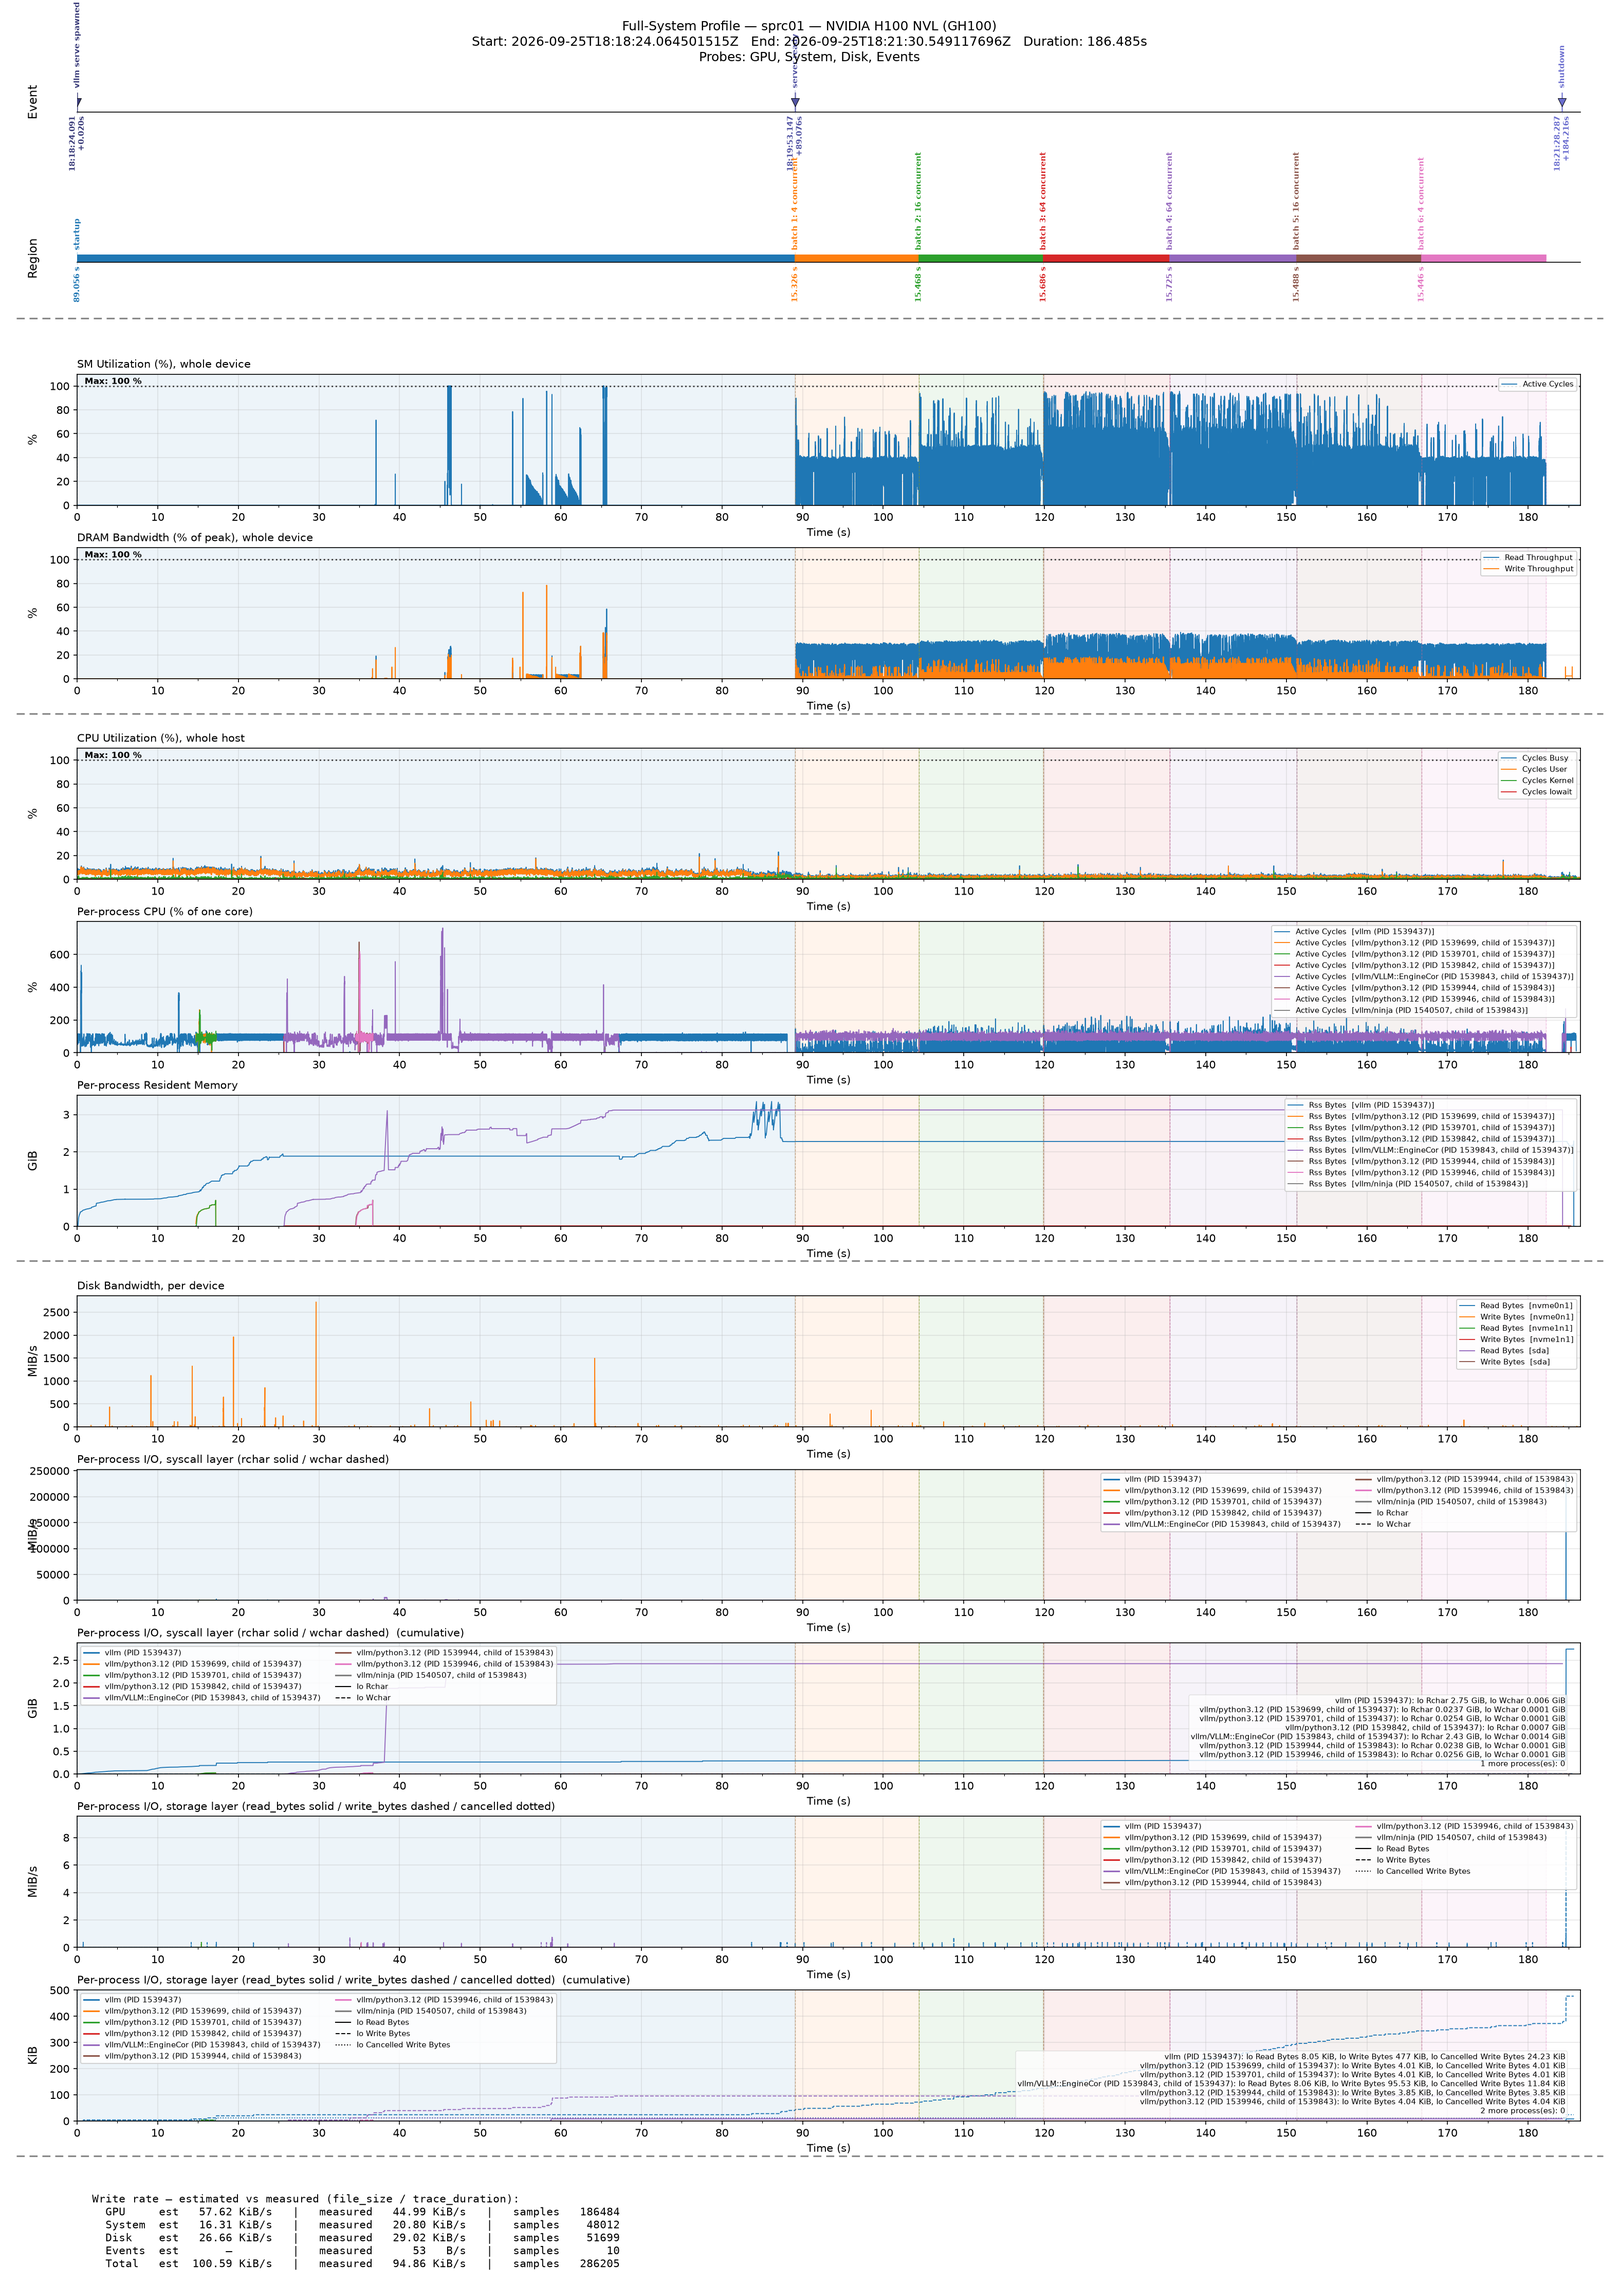
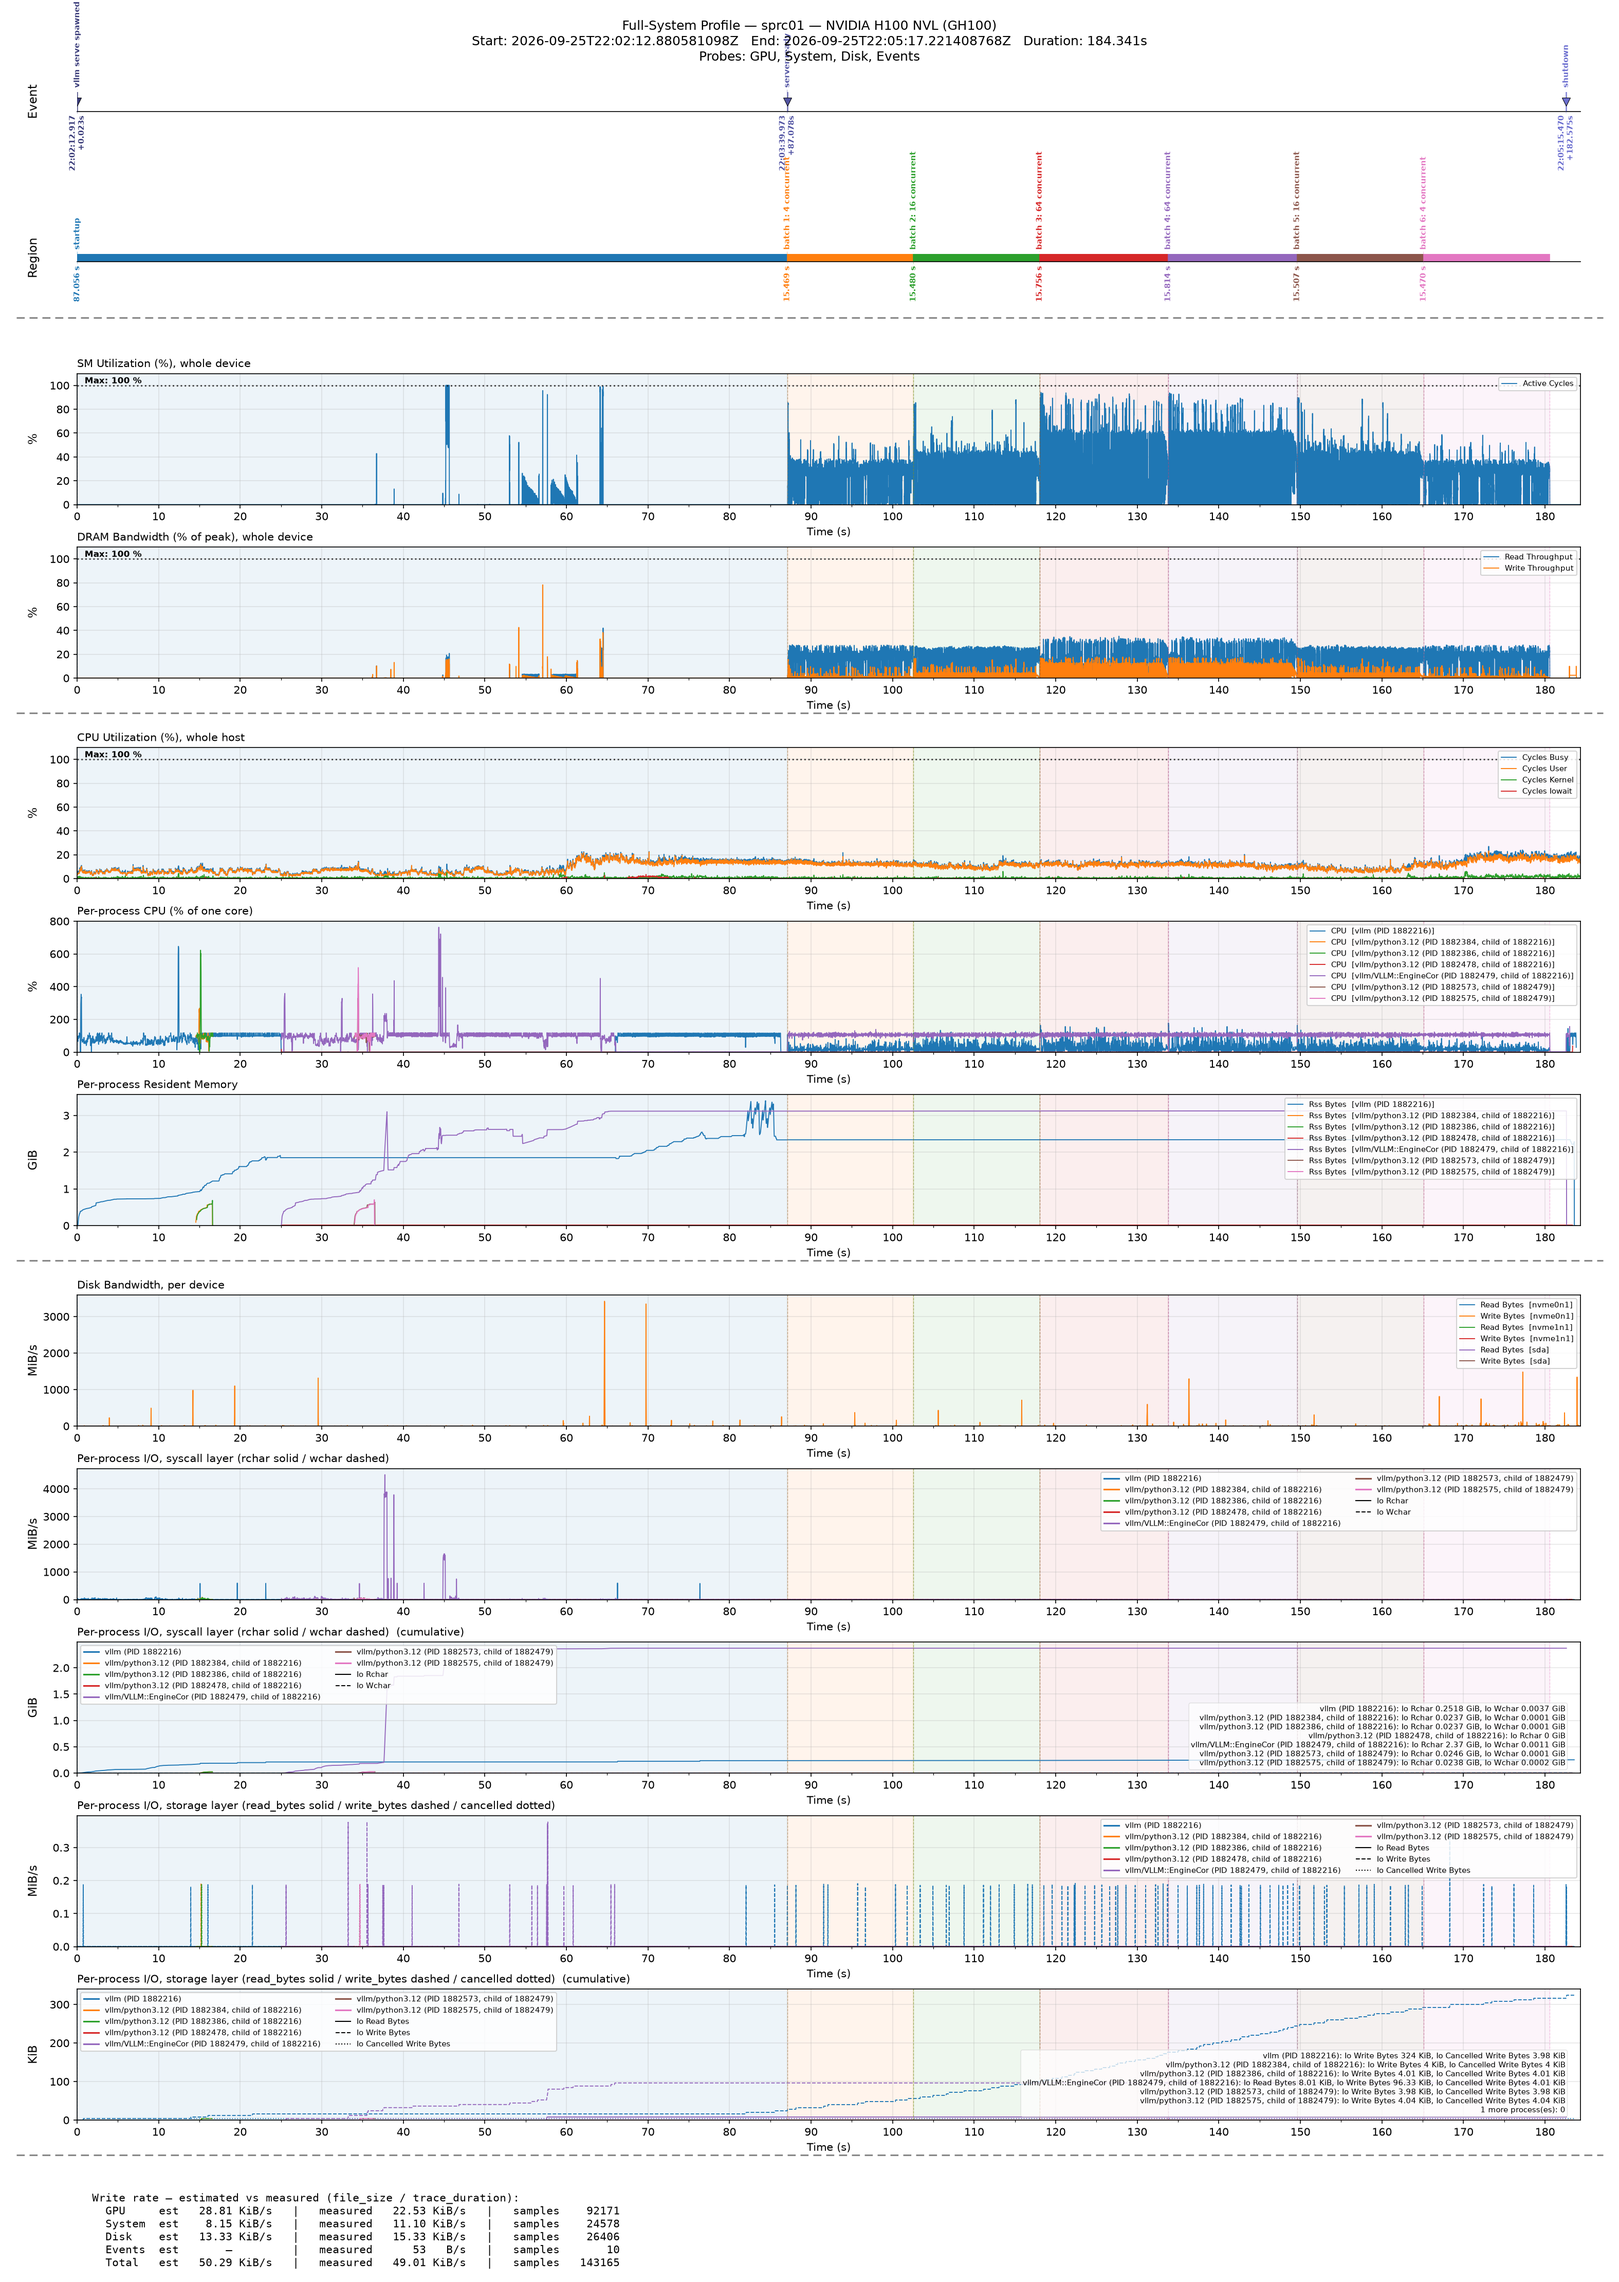
docs(examples): re-render the vLLM figure at the new defaults
Rerun of examples/vllm_serving_profiling.py at HEAD's defaults (System
and Disk 50 Hz, --gpu at 500 Hz), after the reaped-children and
reap-chain I/O subtraction. In the new figure EngineCore's 2.43 GiB is
subtracted from the API server at shutdown, so the syscall-layer rate
panel no longer has a 250 GB/s reap sample stretching its axis (the
weight load at ~38 s is readable), and per-process CPU legends read
"CPU".

docs/examples/vllm_serving.md: every number quoted from the run in the
figure is from this run (process table, timeline, requests served,
missed short-lived processes, scan cost, sidecar CPU, GPU activity per
batch, weight-load step); the node was not idle (other jobs kept the
whole-host CPU at 5-20%), and the doc says so. The GPU paragraph now
gives the measured cost at 500 Hz (-6.9% throughput, 95% CI 4.8-9.0%,
12 interleaved pairs) instead of the unresolved n = 3 result.

Claude-Session: https://claude.ai/code/session_01KGtpen56WsVzwjUE2dwvzH

diff --git a/docs/examples/vllm_serving.md b/docs/examples/vllm_serving.md
@@ -90,60 +90,59 @@ renames; its rename history is in the table below.
 ### The run in the figure
 
 `Qwen/Qwen3.5-0.8B` on one H100 NVL, vLLM 0.29 from PyPI, `--gpu`, the
-defaults otherwise (100 Hz, 100 ms scan), `-- --max-model-len 4096
---gpu-memory-utilization 0.80`, warm compile caches. The server was ready
-89 s after spawn and served 2844 requests in the 90 s of load, none failed.
-What the example printed at the end, the trace's process table (times from
-the start of the trace; CPU = head + samples + exit tail):
+defaults otherwise (System and Disk 50 Hz, GPU 500 Hz, 100 ms scan),
+`-- --max-model-len 4096 --gpu-memory-utilization 0.80`, warm compile caches.
+The server was ready 87 s after spawn and served 2412 requests in the 90 s of
+load, none failed. The node was not otherwise idle: other jobs kept the
+whole-host CPU panel at 5–20% busy (vLLM itself accounts for ~2 of the 128
+CPUs). What the example printed at the end, the trace's process table (times
+from the start of the trace; CPU = head + samples + exit tail):
 
 | pid | parent | kind | comm (history) | start s | end s | CPU s |
 |---|---|---|---|---|---|---|
-| 1539437 | 1539403 | root | `vllm` | 0.02 | 185.98 | 73.73 |
-| 1539699 | 1539437 | discovered | `python3.12` | 14.65 | 17.27 | 2.49 |
-| 1539701 | 1539437 | discovered | `python3.12` | 14.70 | 17.27 | 2.44 |
-| 1539703 | 1539437 | discovered | `vllm` | 14.92 | 14.93 | 0.00 |
-| 1539842 | 1539437 | discovered | `python3.12` | 25.61 | 185.34 | 0.05 |
-| 1539843 | 1539437 | discovered | `python3.12` → `VLLM::EngineCor` | 25.62 | 184.69 | 137.60 |
-| 1539944 | 1539843 | discovered | `python3.12` | 34.47 | 36.74 | 2.48 |
-| 1539946 | 1539843 | discovered | `python3.12` | 34.52 | 36.72 | 2.46 |
-| 1540246 | 1539843 | discovered | `VLLM::EngineCor` | 45.92 | 45.93 | 0.00 |
-| 1540454 | 1539843 | discovered | `VLLM::EngineCor` | 58.91 | 58.94 | 0.00 |
-| 1540507 | 1539843 | discovered | `ninja` | 65.41 | 65.53 | 0.03 |
+| 1882216 | 1882197 | root | `vllm` | 0.0 | 183.8 | 64.36 |
+| 1882384 | 1882216 | discovered | `python3.12` | 14.4 | 16.6 | 2.21 |
+| 1882386 | 1882216 | discovered | `python3.12` | 14.5 | 16.7 | 2.40 |
+| 1882478 | 1882216 | discovered | `python3.12` | 25.0 | 183.4 | 0.04 |
+| 1882479 | 1882216 | discovered | `python3.12` → `VLLM::EngineCor` | 25.0 | 183.0 | 137.84 |
+| 1882573 | 1882479 | discovered | `python3.12` | 33.9 | 36.6 | 2.66 |
+| 1882575 | 1882479 | discovered | `python3.12` | 33.9 | 36.5 | 2.73 |
 
-The **root** (1539437, `vllm`) is the API server; kind `root` because the
-launcher listed it. **EngineCore** (1539843) was found as `python3.12` 25.6 s
+The **root** (1882216, `vllm`) is the API server; kind `root` because the
+launcher listed it. **EngineCore** (1882479) was found as `python3.12` 25.0 s
 in, before it renamed itself, and its alias followed the rename. The
-**multiprocessing helper** (1539842) lives for the whole run at ~0 CPU. The
+**multiprocessing helper** (1882478) lives for the whole run at ~0 CPU. The
 rest are **startup transients**: two pairs of short-lived Python workers
-(~2.5 s of CPU each; one pair under the API server, one under EngineCore),
-EngineCore's brief forks (still carrying its comm), and a `ninja` build step.
+(~2.5 s of CPU each; one pair under the API server, one under EngineCore).
 Processes that lived less than one scan interval can be missing: in this run
-the oracle below saw 3 such (`file` and two forks), each alive for a single
-10 ms poll.
+the oracle below saw 5 such (`file`, `ninja`, `tileiras` and two of
+EngineCore's brief forks), each alive at most 80 ms.
 
 The panels line up with vLLM's own log (times from the start of the trace):
-EngineCore starts at 25.6 s and loads the weights at ~38 s (the 1.6 GiB step
-in its cumulative `rchar`); its profiling warmup run (~47–54 s) and CUDA
-graph capture (~54–62 s) are the GPU activity during startup and its bursts
-of several cores; its init finishes at ~67 s, and the API server, busy at
-~100% of a core through most of startup, spends ~20 s more on multi-modal
-warmup before it answers `/v1/models` at 89 s. Under load both run near one
-core each; resident memory grows to ~3 GiB in each. (`torch.compile` was a
-cache hit here, 0.4 s; with cold caches startup takes minutes and spawns
-many more short-lived compiler processes, each traced if it lives ≥ 100 ms.)
+EngineCore starts at 25.0 s and loads the weights at ~38 s (the step in its
+cumulative `rchar`; vLLM: "Loading weights took 0.52 seconds"); its profiling
+warmup and two CUDA graph captures (finished at 56 s and 61 s) are the GPU
+activity during startup and its bursts of several cores; its init finishes at
+65 s, and the API server, busy at ~100% of a core through most of startup,
+spends ~20 s more before it answers `/v1/models` at 87 s. Under load both run
+near one core each; resident memory reaches ~3.1 GiB (EngineCore) and
+~2.3 GiB (API server). (`torch.compile` was a cache hit here, 0.3 s; with cold
+caches startup takes minutes and spawns many more short-lived compiler
+processes, each traced if it lives ≥ 100 ms.)
 
-### Checked on six runs
+### Checked on seven runs
 
-Two jobs, six runs (two without `--gpu`, then two pairs alternating), with a
+Six runs at the earlier defaults (System and Disk 100 Hz; two without
+`--gpu`, then two pairs alternating) and the run in the figure, each with a
 test-only oracle polling the run's cgroup every 10 ms and the launcher's
 `getrusage(RUSAGE_CHILDREN)`:
 
 | | result |
 |---|---|
-| Completeness: every process the oracle saw alive ≥ 100 ms is in the trace (both probes) | **6/6 runs** (7–8 such processes per run, 0 missed); the 3–9 missed per run were each seen alive ≤ 10.5 ms |
-| Per-process CPU of the whole tree (Σ head + samples + tails) vs `getrusage(RUSAGE_CHILDREN)` once vLLM was reaped | trace **15–44 ms below** out of 196–221 s (0.008–0.020%). What the trace cannot hold: the root's CPU after its last sample (a root has no exit tail: its parent, the launcher, is not tracked), and the CPU of the missed sub-100 ms processes |
-| Descendant tracking scan (the trace's `DiscoveryStats`) | p50 0.72–1.25 ms, p99 1.7–2.8 ms, 7–10 processes discovered, all seen exiting |
-| The sidecar's own CPU (exact, from `getrusage` across `stop()`) | **8.6–14.6% of one core** over the run, unpinned. 8.6% in the one run on a quiet node without `--gpu`; 13.2–14.6% while the node was 40–70% busy with other jobs or the launcher ran the GPU probe beside it. Pin it with `sidecar_cpus` to keep it off the server's cores |
+| Completeness: every process the oracle saw alive ≥ 100 ms is in the trace (both probes) | **7/7 runs** (7–8 such processes per run, 0 missed); the 3–9 missed per run were each seen alive ≤ 80.5 ms |
+| Per-process CPU of the whole tree (Σ head + samples + tails) vs `getrusage(RUSAGE_CHILDREN)` once vLLM was reaped | trace **15–74 ms below** out of 196–221 s (0.008–0.035%; the figure's run: 74 ms of 212 s). What the trace cannot hold: the root's CPU after its last sample (a root has no exit tail: its parent, the launcher, is not tracked), and the CPU of the missed sub-100 ms processes |
+| Descendant tracking scan (the trace's `DiscoveryStats`) | p50 0.72–1.25 ms, p99 1.7–2.8 ms, 6–10 processes discovered, all seen exiting (the figure's run: p50 0.92 ms, p99 2.5 ms, 6) |
+| The sidecar's own CPU (exact, from `getrusage` across `stop()`) | At 100 Hz: **8.6–14.6% of one core** over the run, unpinned (8.6% on a quiet node without `--gpu`; 13.2–14.6% while the node was 40–70% busy or the launcher ran the GPU probe beside it). At the 50 Hz default, the figure's run: **8.3%** (8.8% under load, with `--gpu`). What each rate costs, measured: [Sampling frequency guidance](../system-guide.md#sampling-frequency-guidance). Pin it with `sidecar_cpus` to keep it off the server's cores |
 
 ## GPU: device-wide counters from the launcher
 
@@ -151,19 +150,21 @@ CUPTI PM Sampling runs in the launcher's own CUDA context, but the counters it
 samples are the **device's**: SM activity, warps and DRAM throughput include
 every context on the GPU, vLLM's among them. Measured in this example's runs:
 
-| window | SM active (% of peak, mean) — run in the figure | second run | third run |
+| window | SM active (% of peak, mean) — run in the figure (500 Hz) | earlier run (1000 Hz) | earlier run (1000 Hz) |
 |---|---|---|---|
 | startup (spawn → ready) | 0.9 | 0.9 | 0.9 |
-| load, concurrency 4 / 16 / 64 / 64 / 16 / 4 | 25.7 / 27.1 / 37.9 / 34.6 / 26.0 / 25.7 | 23.6 / 22.2 / 31.0 / 32.2 / 18.7 / 17.5 | 24.8 / 23.8 / 32.0 / 33.1 / 25.0 / 24.8 |
+| load, concurrency 4 / 16 / 64 / 64 / 16 / 4 | 23.9 / 22.0 / 29.2 / 28.7 / 23.0 / 23.0 | 23.6 / 22.2 / 31.0 / 32.2 / 18.7 / 17.5 | 24.8 / 23.8 / 32.0 / 33.1 / 25.0 / 24.8 |
 | idle, after the load | 0.0 | 0.0 | 0.0 |
 
 SM activity follows vLLM's load, so **from a launcher the GPU panels are
 meaningful, device-wide**. It did not conflict with vLLM: every run started
-and served every request. It may cost a little: in each of the three pairs
-of runs with and without `--gpu`, the `--gpu` run completed 4.5–8.0% fewer
-requests in the same 90 s, a spread that n = 3 cannot separate from
-run-to-run noise (up to 11% between runs of the same kind). `--gpu` is
-therefore off by default.
+and served every request. **It does cost throughput**: at 500 Hz, in 12
+interleaved pairs against the same server with and without the probe
+(System and Disk at 50 Hz in both), vLLM served **6.9% fewer requests per
+second** (95% CI 4.8–9.0%) and mean time-to-first-token rose 23%; the
+launcher hosting the probe used 93% of one core throughout, competing with
+the server for CPUs — whether that or the counter collection is the cause
+was not isolated. `--gpu` is off by default.
 
 What the launcher cannot give you: anything per context or per kernel
 (the counters are whole-device, so another job on the same GPU would show up
@@ -177,8 +178,9 @@ one CPU thread in the launcher.
 - **Weight loading shows in the syscall layer, not the storage layer.**
   vLLM 0.29's default safetensors loader reads the checkpoint with `read()`:
   EngineCore's `rchar` grows by the checkpoint's size (1.63 GiB for
-  `Qwen/Qwen3.5-0.8B`) in about 0.5 s (vLLM logs "Loading weights took
-  0.54 seconds"), while `read_bytes` stays at 0
+  `Qwen/Qwen3.5-0.8B`; 1.66 GiB in the figure's 36–41 s window) in about
+  0.5 s (vLLM logs "Loading weights took 0.52 seconds"), while `read_bytes`
+  stays at 0
   because the file is already in the page cache. **A loader that `mmap`s
   from a warm cache would be invisible to every per-process counter**; see
   [per-PID I/O counters](../metric-model.md#per-pid-io-counters-who-records-what).
@@ -192,9 +194,11 @@ one CPU thread in the launcher.
   `IoReapAdjustment`, so per-process I/O is each process's own and sums
   over the tree correctly; see
   [reaped children's I/O](../system-guide.md#reaped-childrens-io).
-  **The figure above predates this** (it was recorded before the change):
-  it still shows the API server's one-sample jump at shutdown, which
-  stretches the syscall-layer rate axis.
+  In the figure's run, EngineCore's 2.43 GiB is subtracted from the API
+  server at 183.1 s, so neither syscall-layer panel shows a jump at
+  shutdown. A tracked process that reaps a child and then exits and is
+  reaped itself within one sampling interval is handled too (the chain is
+  subtracted at the first live tracked ancestor).
 - `wchar` includes socket and pipe traffic (the server's responses, its
   log on stdout), so it is not a file-write rate.
 
